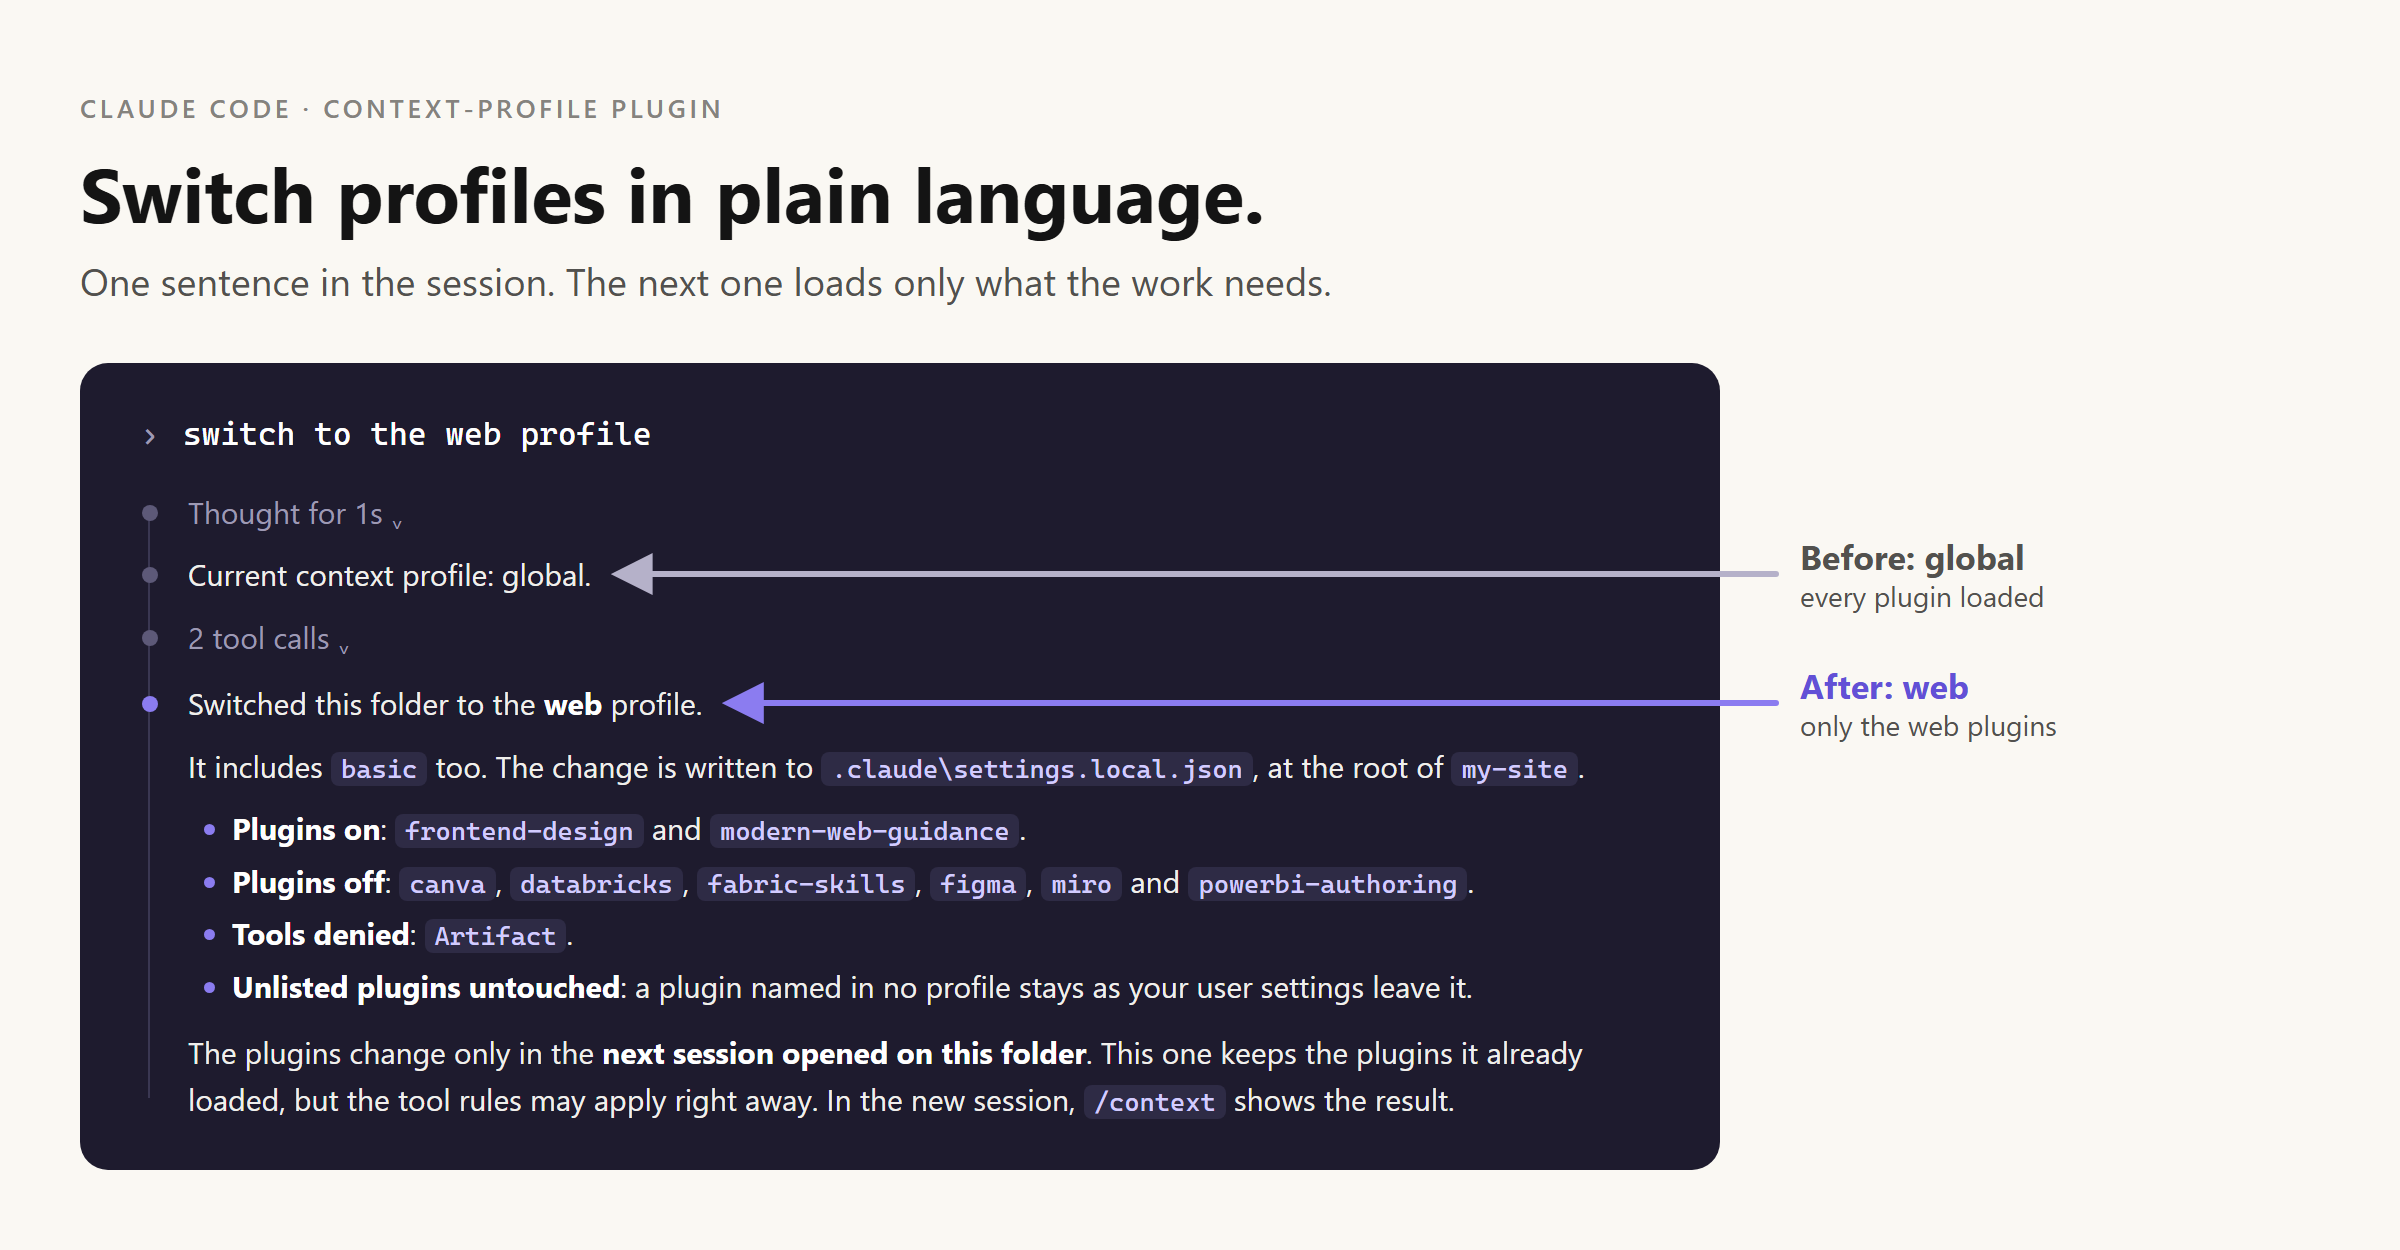
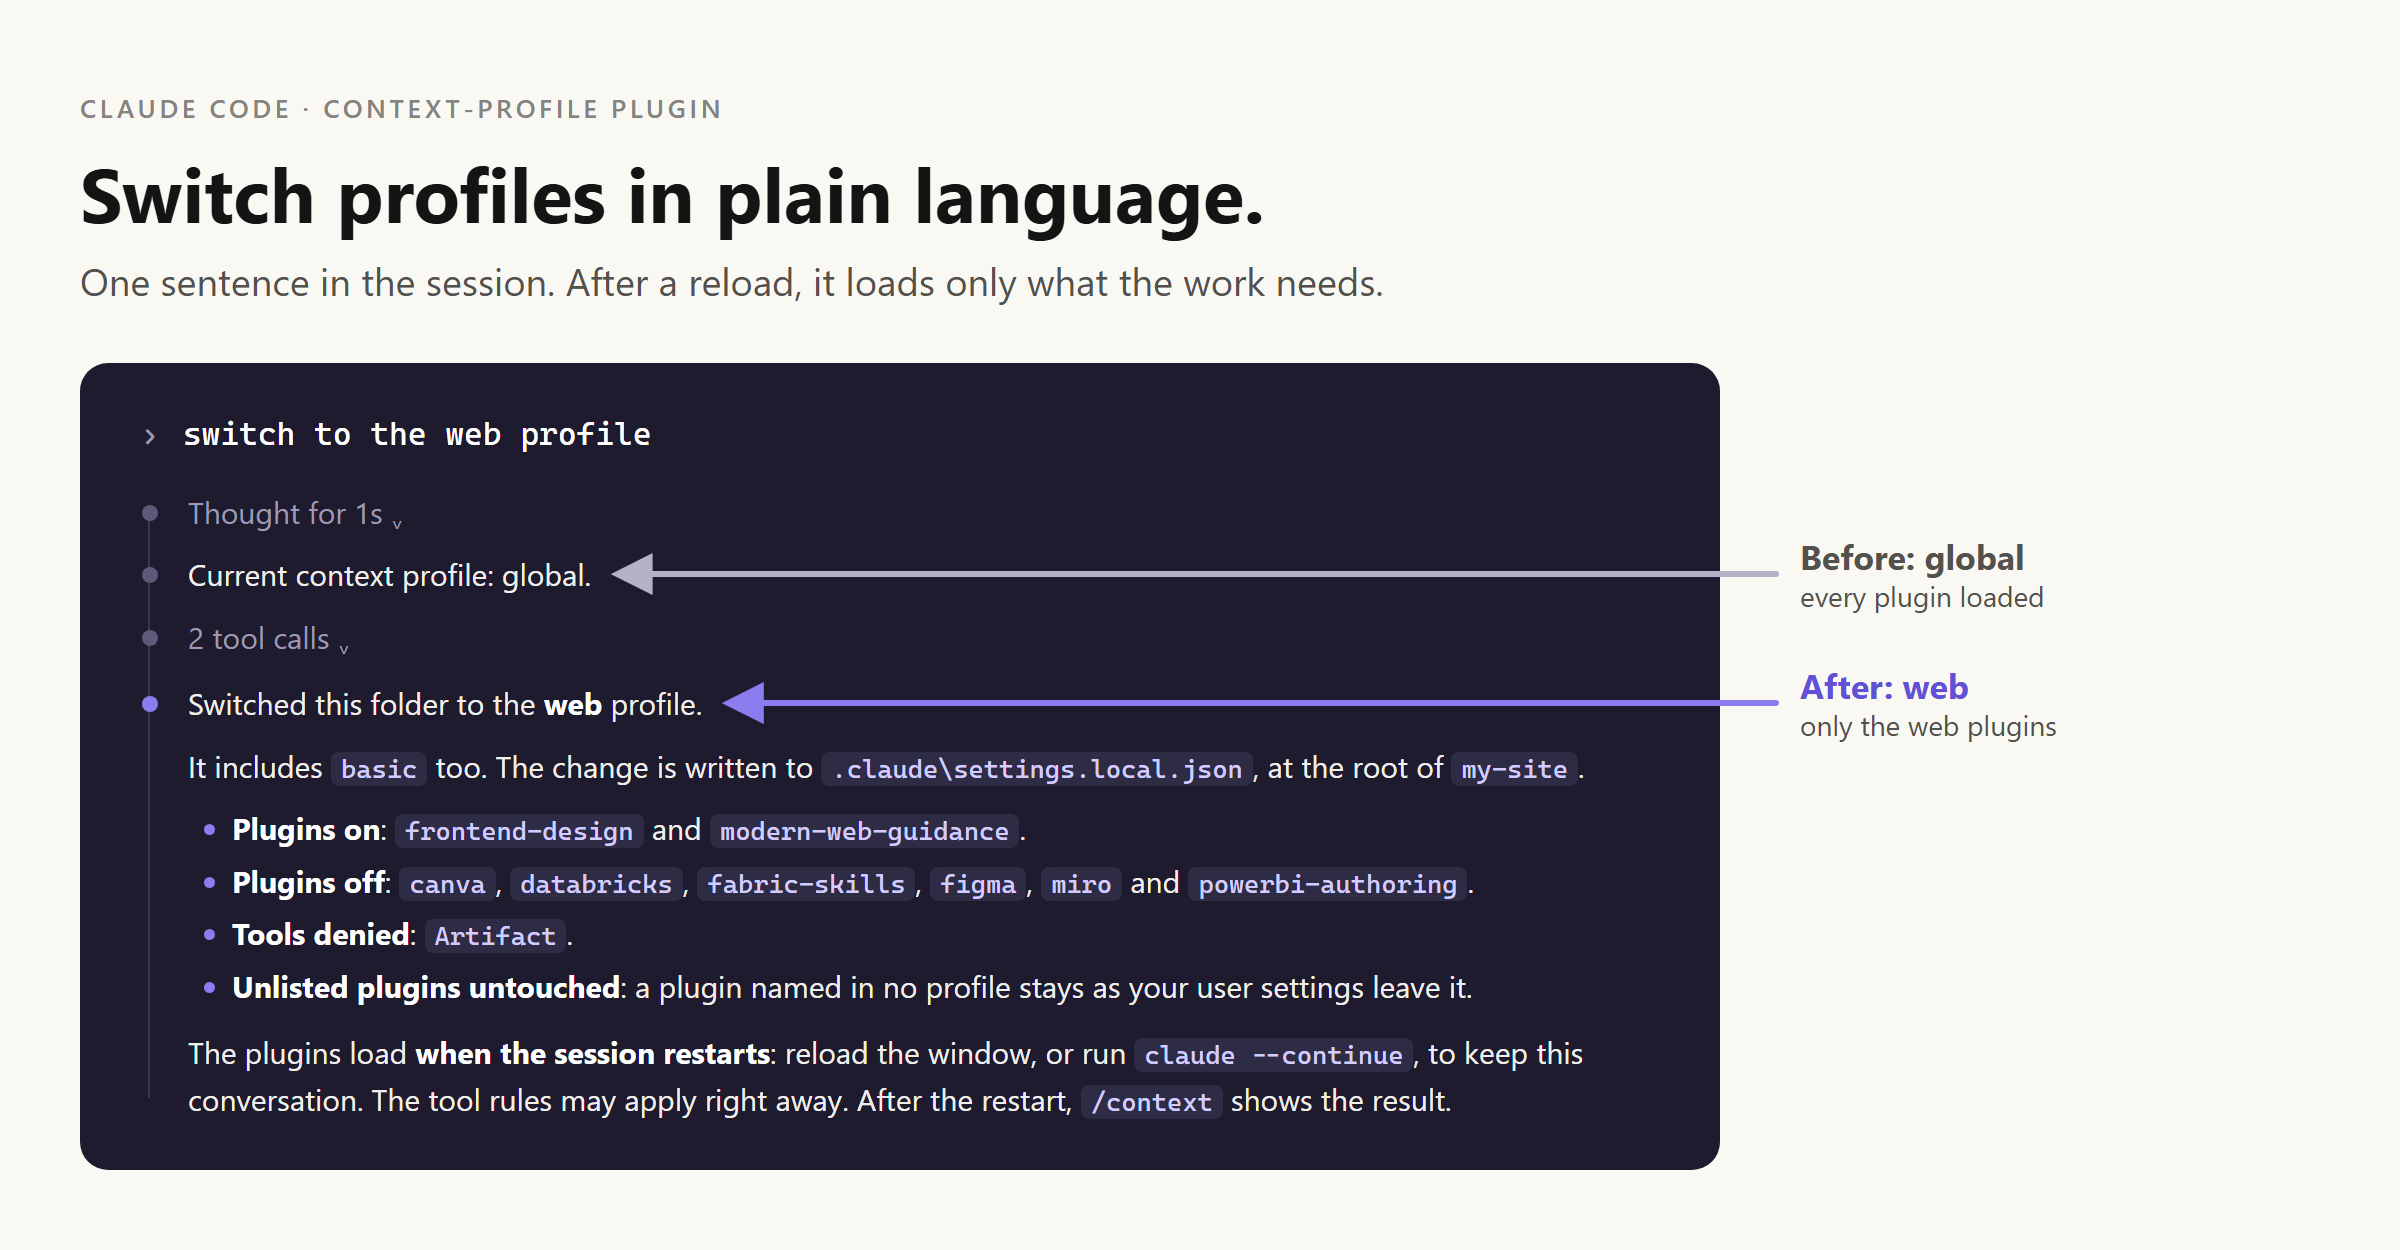
context-profile 0.4.0: plugins load on restart, and a reload or claude --continue keeps the conversation
Tested on Claude Code 2.1.302: a session resumed after a switch keeps its id and loads the new profile's plugins.

Changed region(s): [[0.0625, 0.8112, 0.6562, 0.9048], [0.2188, 0.2184, 0.5938, 0.2496]]

diff --git a/docs/src/context-profile-session.html b/docs/src/context-profile-session.html
@@ -35,7 +35,7 @@
 <body><div class="page">
   <div class="eyebrow">Claude Code &middot; context-profile plugin</div>
   <h1>Switch profiles in plain language.</h1>
-  <p class="sub">One sentence in the session. The next one loads only what the work needs.</p>
+  <p class="sub">One sentence in the session. After a reload, it loads only what the work needs.</p>
   <div class="card">
     <div class="user"><span class="gt">&rsaquo;</span>switch to the web profile</div>
     <div class="tl">
@@ -51,7 +51,7 @@
           <li><b>Tools denied</b>: <code>Artifact</code>.</li>
           <li><b>Unlisted plugins untouched</b>: a plugin named in no profile stays as your user settings leave it.</li>
         </ul>
-        <p style="margin:0">The plugins change only in the <b>next session opened on this folder</b>. This one keeps the plugins it already loaded, but the tool rules may apply right away. In the new session, <code>/context</code> shows the result.</p>
+        <p style="margin:0">The plugins load <b>when the session restarts</b>: reload the window, or run <code>claude --continue</code>, to keep this conversation. The tool rules may apply right away. After the restart, <code>/context</code> shows the result.</p>
       </div>
     </div>
   </div>

diff --git a/plugins/context-profile/skills/context-profile/scripts/apply.py b/plugins/context-profile/skills/context-profile/scripts/apply.py
@@ -26,8 +26,8 @@ CONFIG = CLAUDE_HOME / "context-profiles.json"
 # The plugin that ships this skill: never switched by a profile.
 SELF_PLUGIN = "context-profile@"
 RESERVED = ("global", "except", "reset")
-APPLIES = ("Plugins apply to the next session opened on this folder;"
-           " tools may change in this session already.")
+APPLIES = ("Plugins load when the session restarts: reload the window (VS Code) or run"
+           " `claude --continue` to keep the conversation; tools may change in this session already.")
 
 
 class ConfigError(Exception):

diff --git a/plugins/context-profile/README.md b/plugins/context-profile/README.md
@@ -9,7 +9,8 @@ language, from inside the session:
 
 ![A Claude Code session: "switch to the web profile" moves the folder from the global profile to the web profile, turns the data plugins off and denies the Artifact tool](../../docs/context-profile-session.png)
 
-The next session opened on that folder starts lighter, and says so:
+Reload the window (VS Code) or run `claude --continue`: the same conversation restarts
+lighter, and says so:
 
 ```text
 Context profile: basic + web
@@ -124,9 +125,10 @@ how heavy are my plugins?
 A small script, `apply.py`, does the switch in one step. It writes
 `enabledPlugins` and `permissions.deny` in `.claude/settings.local.json` of
 the folder the session was opened on, and leaves every other setting untouched. Claude Code
-asks you to approve the command the first time. **The plugins of a profile apply to the
-next session opened on that folder**; the tools may change in the current session already (see
-"What I learned building it"). Each folder keeps its own profile: your client's website
+asks you to approve the command the first time. **The plugins of a profile load when the
+session restarts on that folder**, and the restart can keep the conversation: "Developer:
+Reload Window" in VS Code, or quit and `claude --continue` in a terminal. The tools may change
+in the current session already (see "What I learned building it"). Each folder keeps its own profile: your client's website
 does not inherit your data plugins.
 
 **The session banner.** The plugin ships a `SessionStart` hook that shows the profile of
@@ -239,6 +241,10 @@ it by hand.
   2.1.330, switching from `web` to `global` made the `Artifact` tool available in the running
   session right away, while the new plugins waited for the next one. The reverse, a tool denied
   mid-session, was not tested.
+- **A resumed session loads the new plugins and keeps the conversation.** On Claude Code
+  2.1.302, a session opened on `basic`, then resumed (`claude --resume <id>`) after a switch
+  to `databricks`, kept its id and history and came back with the 34 `databricks` skills.
+  Reloading the VS Code window restarts the extension's Claude Code process the same way.
 - **A `Skill(<name>)` deny rule does not hide a skill.** It blocks the call, but the skill
   stays in the listing. The granularity is the plugin, or the tool.
 

diff --git a/plugins/context-profile/skills/context-profile/SKILL.md b/plugins/context-profile/skills/context-profile/SKILL.md
@@ -83,10 +83,12 @@ for the plugins and tools listed in the profiles only, keeps every other key, ne
 the plugin that ships this skill, and prints a summary. Exit code 3: unknown profile, the
 output lists the valid ones; exit code 2: configuration problem, the output says which.
 
-**Then relay the summary briefly**, and say: **the plugins of the profile apply to the next
-session opened on this folder**; the current one keeps the plugins it loaded, but its tools
-may already follow the switch (Claude Code reloads permission rules during a session).
-`/context` in the new session shows the result.
+**Then relay the summary briefly**, and say: **the plugins of the profile load when the
+session restarts on this folder**, and a restart can keep the conversation: in VS Code,
+"Developer: Reload Window" resumes it; in a terminal, quit and run `claude --continue`. Until
+then the session keeps the plugins it loaded, but its tools may already follow the switch
+(Claude Code reloads permission rules during a session). `/context` after the restart shows
+the result.
 
 **Missing plugins** - the summary lists them under "Not installed", with their marketplace
 when it is unknown. Ask once for approval, **installing runs third-party code**, then, from
